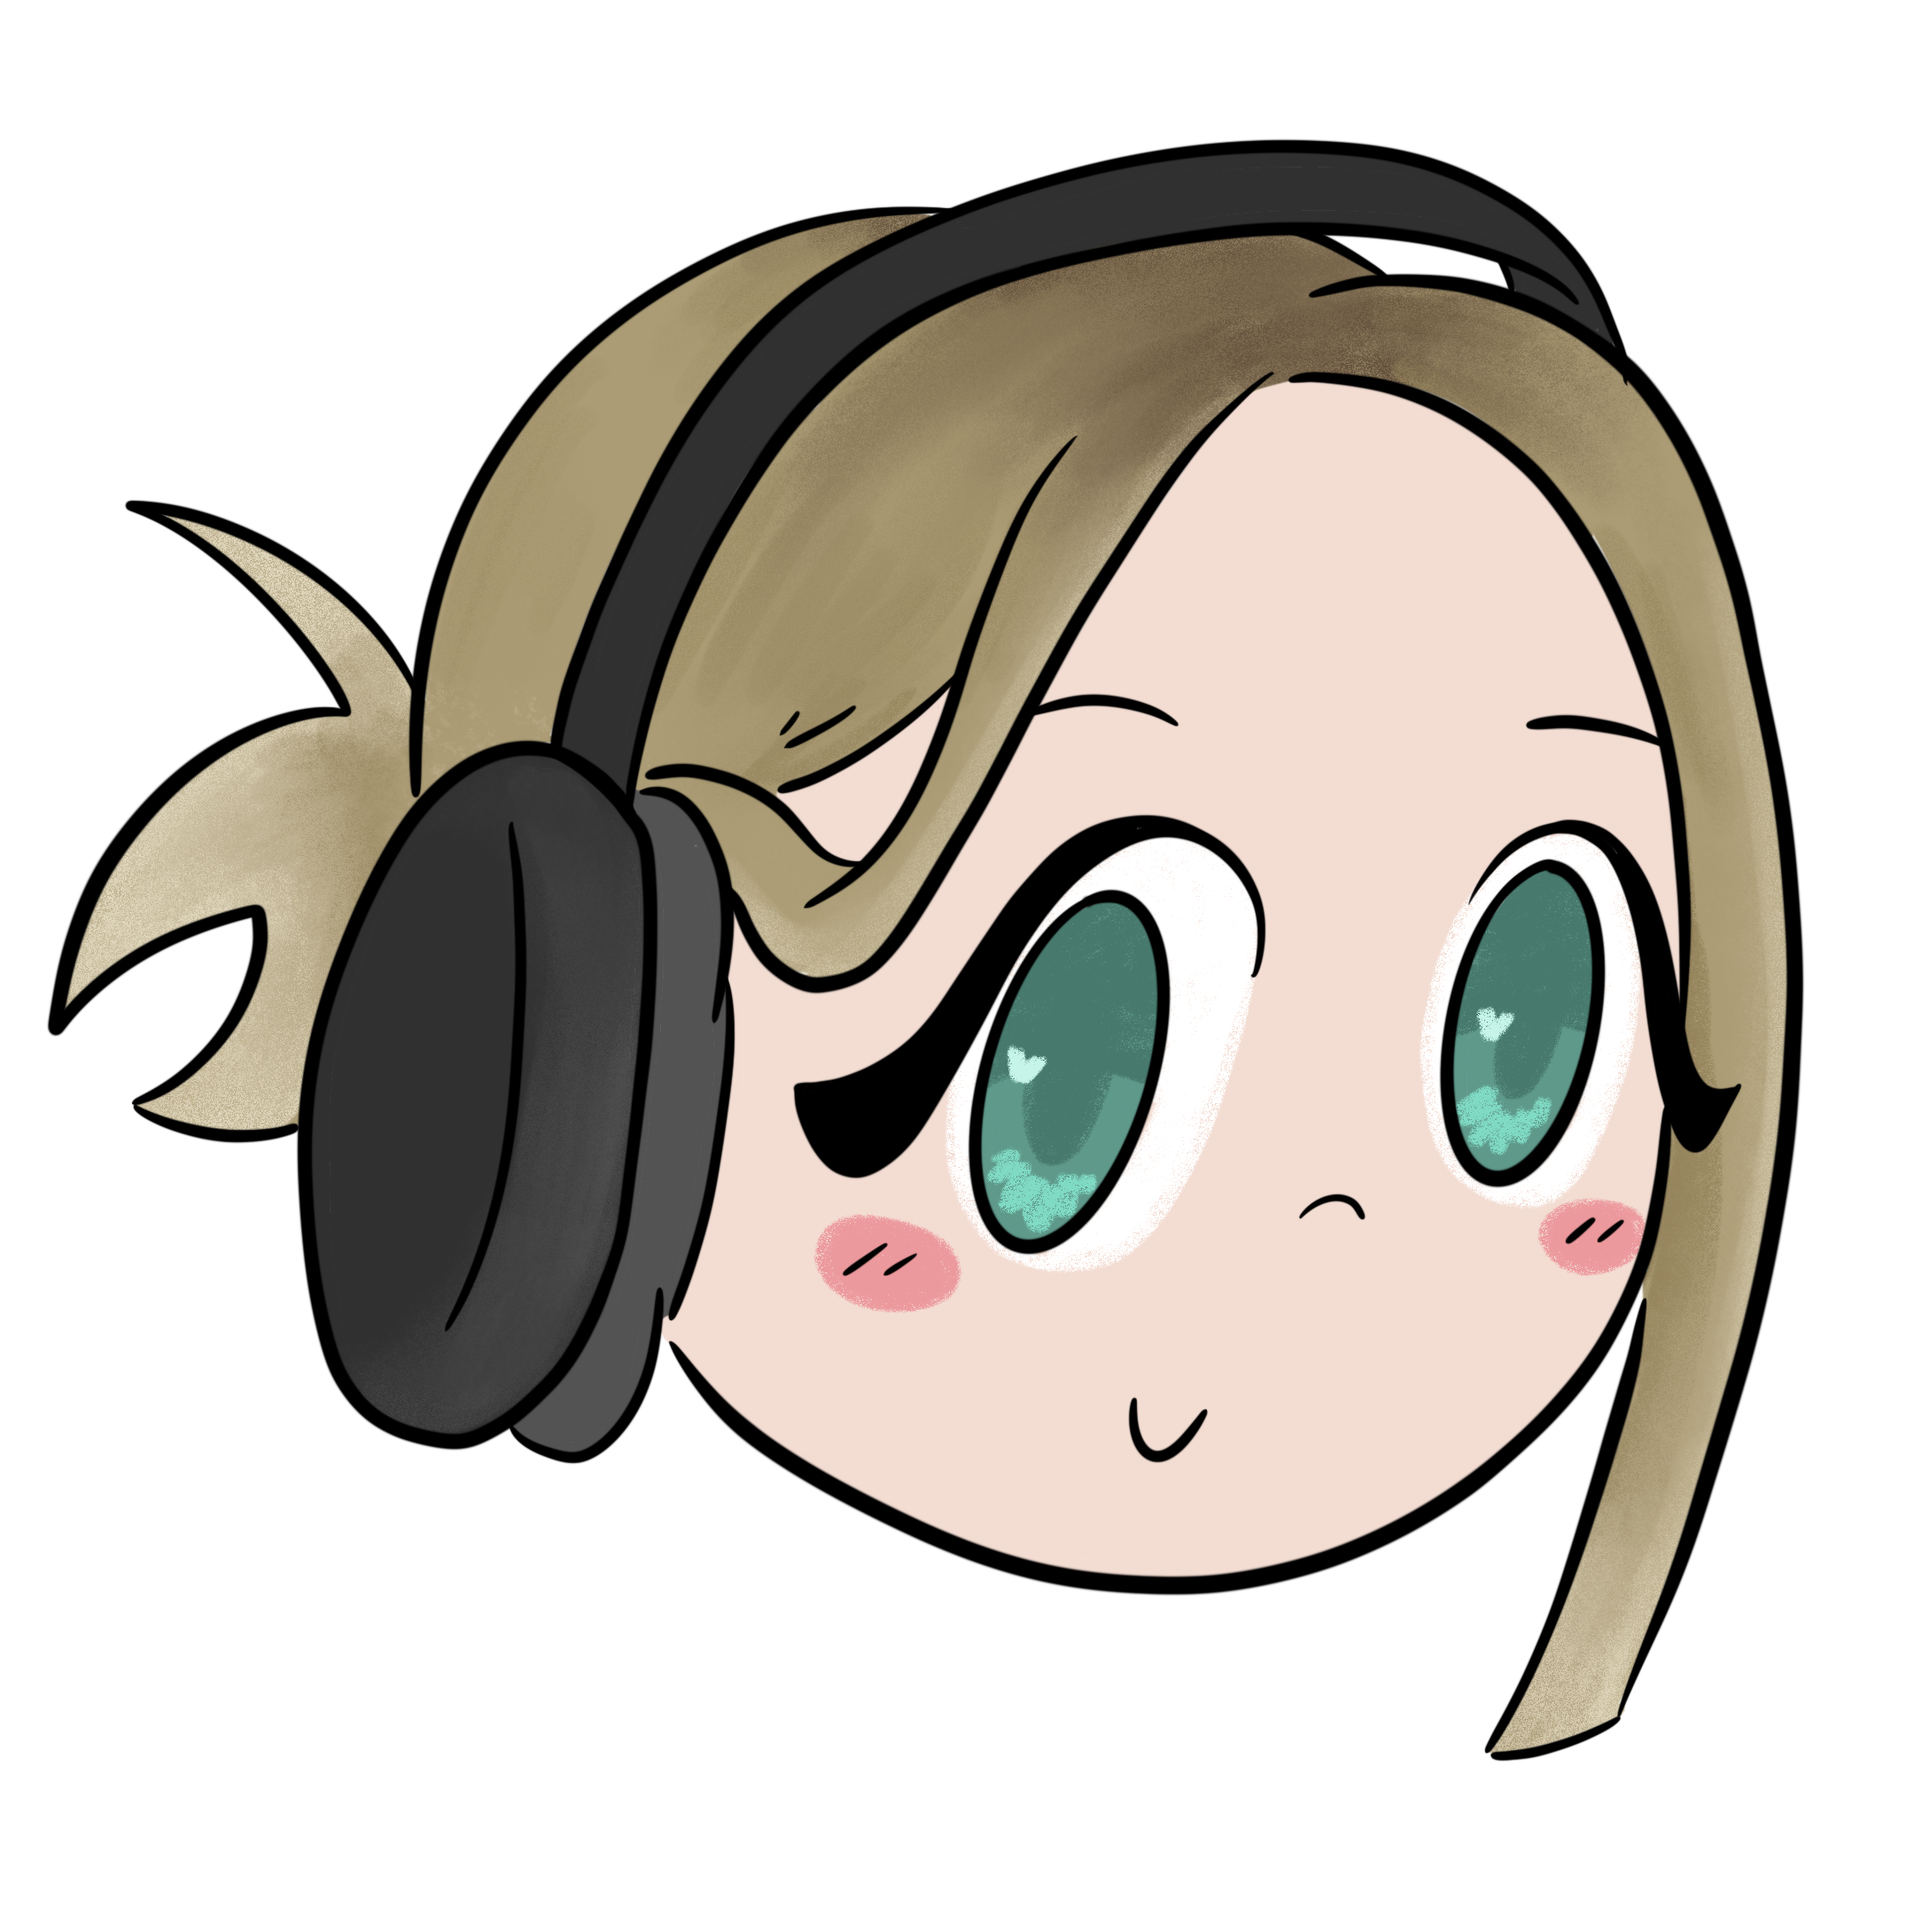
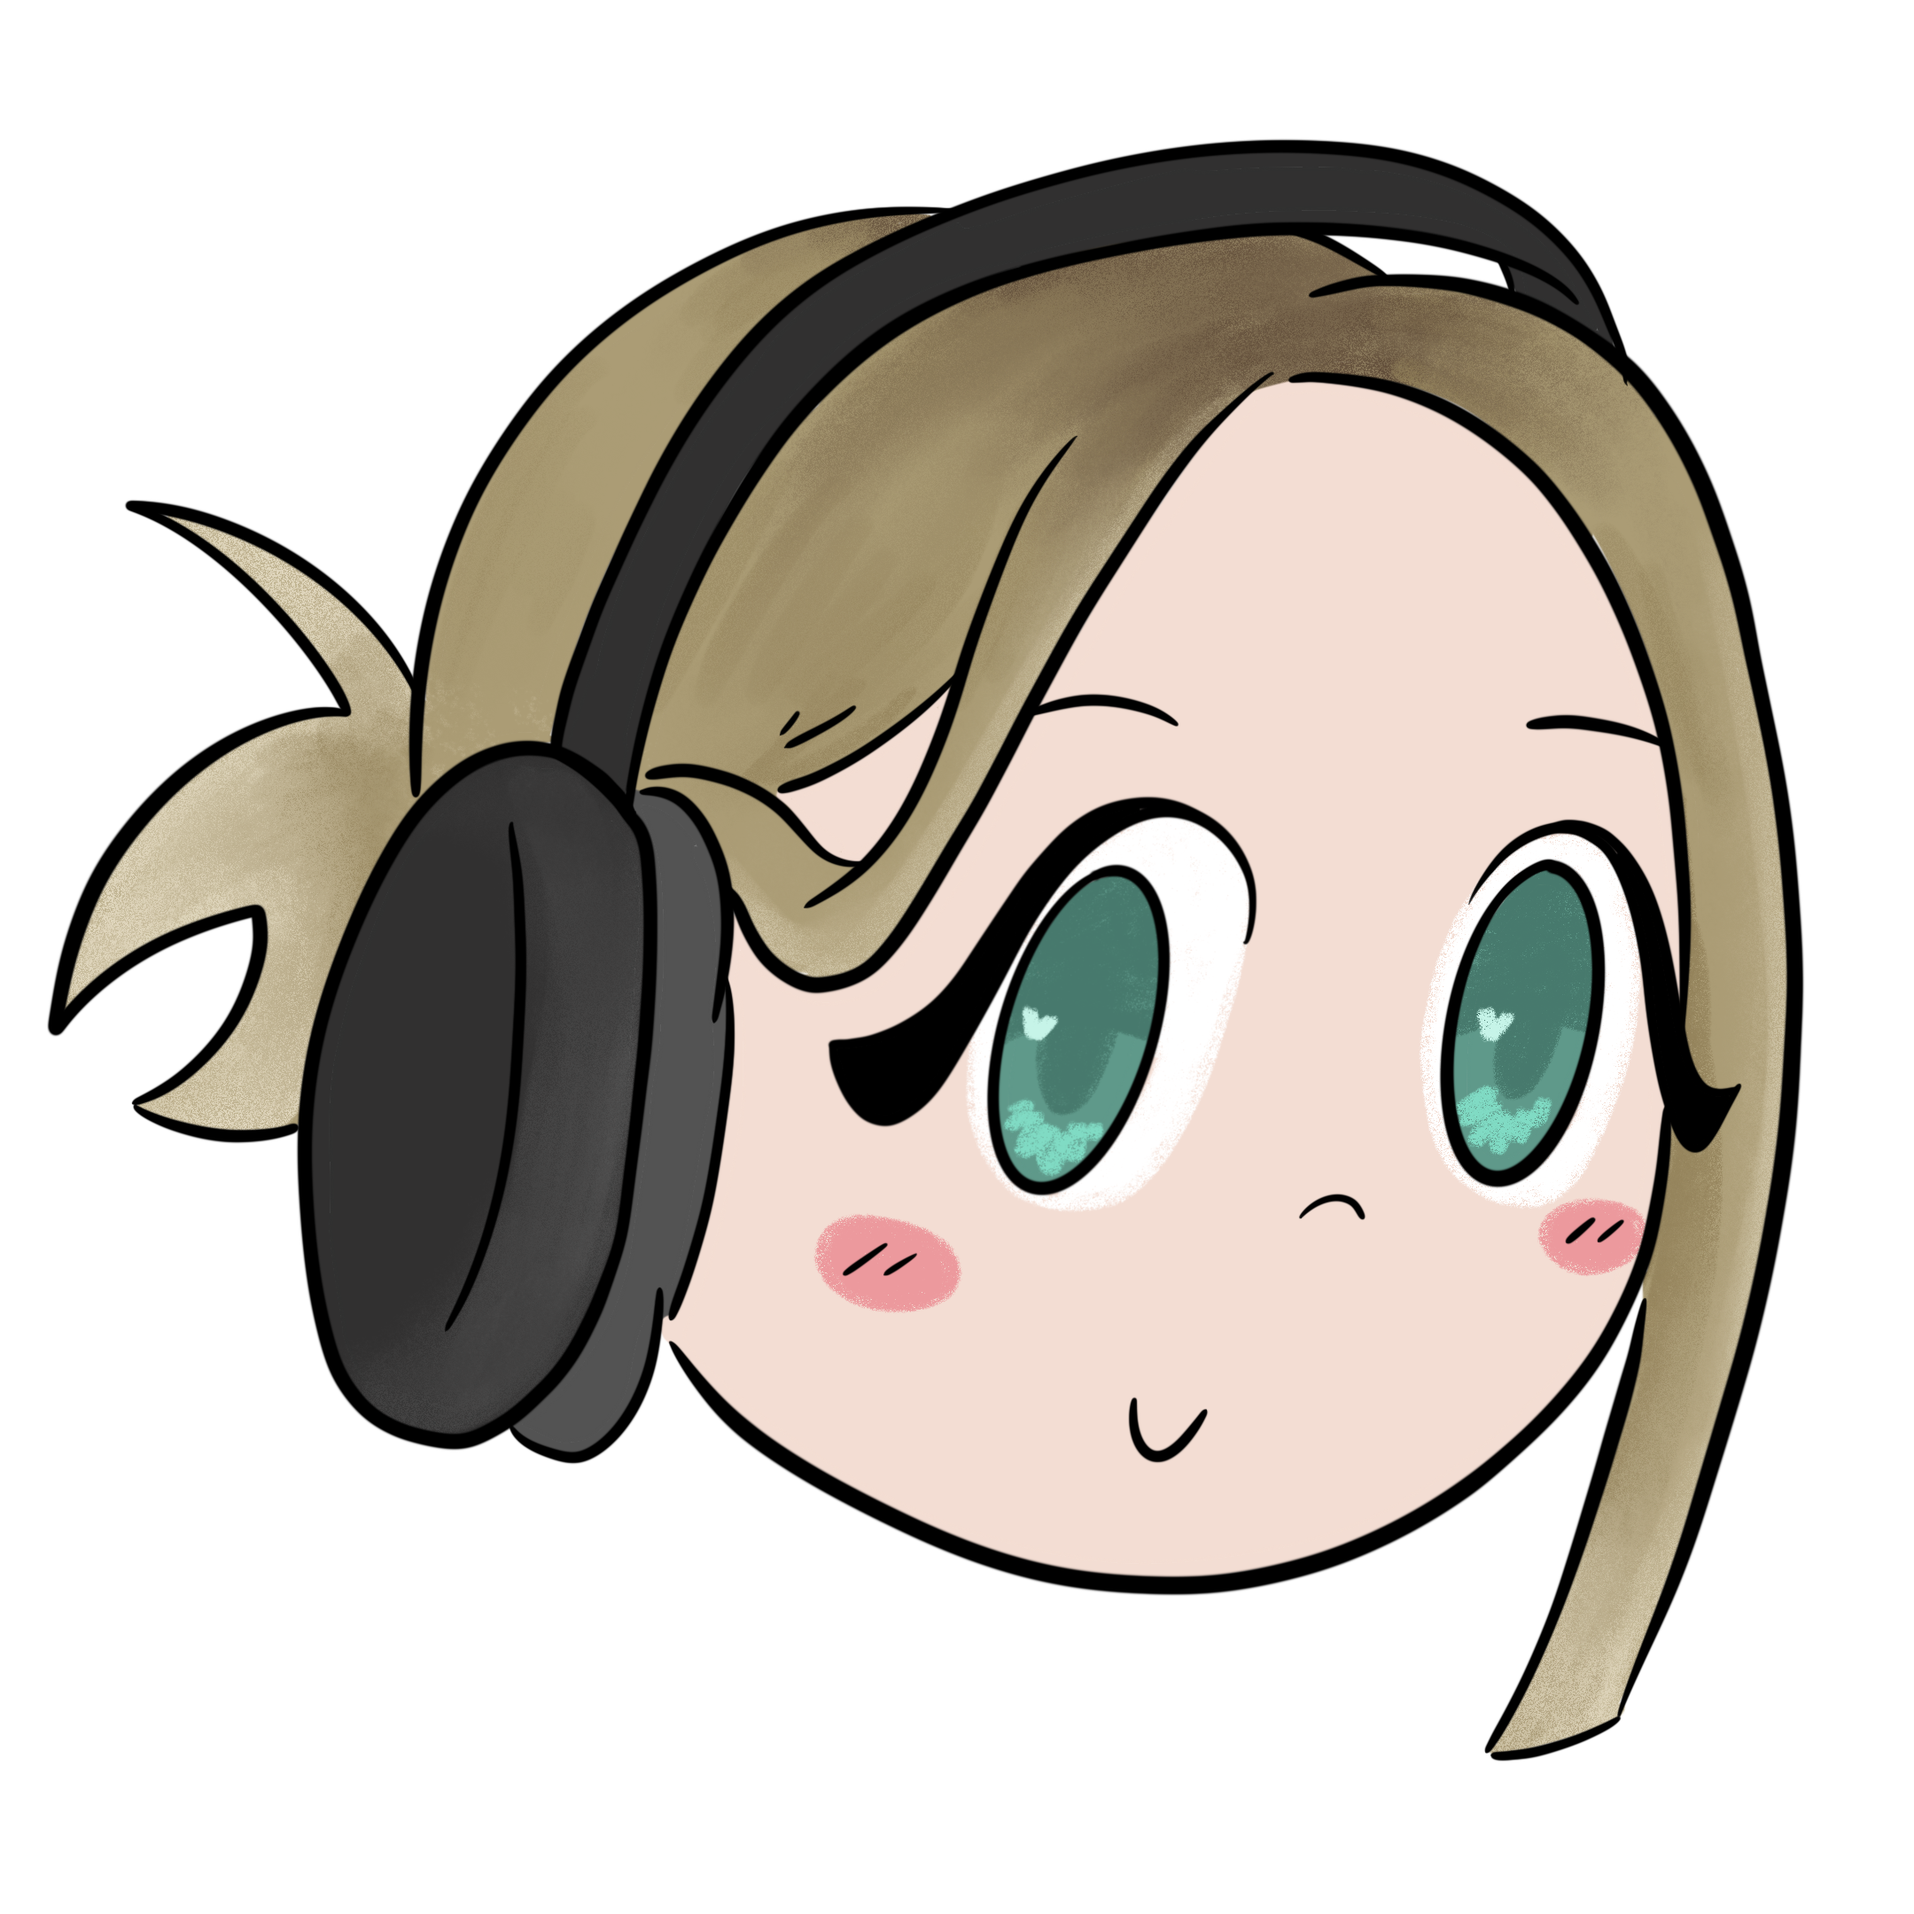
base test 6

Changed region(s): [[0.4032, 0.4032, 0.6824, 0.6824]]

diff --git a/style.css b/style.css
@@ -32,7 +32,7 @@ html{ scroll-behavior: smooth; }
 
 body{
   margin: 0;
-  background: var(--bg);
+  background: rgb(72, 51, 89);
   color: rgb(255, 235, 255);
   font-family: var(--font-body);
   font-size: 17px;
@@ -71,7 +71,7 @@ section{ padding: 96px 0; }
   margin: 0 0 0.3em;
 }
 
-.section-lede{ color: var(--ink-soft); }
+.section-lede{ color: rgb(255, 235, 255);; }
 
 /* =========================================================
    HEADER
@@ -341,14 +341,19 @@ section{ padding: 96px 0; }
   display: grid;
   grid-template-columns: 1fr 1fr;
   gap: 0;
-  background: var(--card);
+  background: rgb(119, 94, 140);;
   border-radius: var(--radius-lg);
   overflow: hidden;
   box-shadow: var(--shadow-card);
 }
 
+.project-copy h2{
+  color: var(--accent-berry);
+}
+
 .project-b{ direction: rtl; }
 .project-b .project-copy{ direction: ltr; }
+
 .project-b .project-thumb{ direction: ltr; }
 
 .project-thumb{
@@ -356,19 +361,16 @@ section{ padding: 96px 0; }
   display: flex;
   align-items: center;
   justify-content: center;
-  padding: 24px;
   text-align: center;
 }
 .placeholder-thumb{
   color: var(--card);
   font-weight: 600;
-  background-image: radial-gradient(rgba(255,255,255,0.35) 2px, transparent 2px);
-  background-size: 18px 18px;
 }
-.thumb-1{ background-color: var(--accent-berry); }
-.thumb-2{ background-color: var(--accent-moss); }
-.thumb-3{ background-color: var(--accent-honey); }
-.thumb-4{ background-color: var(--ink-soft); }
+.thumb-1{ }
+.thumb-2{ }
+.thumb-3{ }
+.thumb-4{ }
 
 .project-copy{
   padding: 36px 40px;
@@ -386,7 +388,7 @@ section{ padding: 96px 0; }
   margin: 10px 0 18px;
 }
 .project-tags li{
-  background: var(--bg-soft);
+  background: rgb(255, 235, 255);
   border-radius: 999px;
   padding: 5px 14px;
   font-size: 0.85rem;
@@ -394,8 +396,7 @@ section{ padding: 96px 0; }
   color: var(--ink-soft);
 }
 .project-tags li.tag-mode{
-  background: var(--accent-moss);
-  color: var(--card);
+  background: rgb(222, 182, 222);
 }
 .project-tags li.tag-jam{
   background: var(--accent-honey);
@@ -407,6 +408,8 @@ section{ padding: 96px 0; }
   border: none;
   cursor: pointer;
   font-family: var(--font-body);
+  background: rgb(74, 155, 137);
+  color: rgb(72, 51, 89);
 }
 
 .projects-heading{

diff --git a/script.js b/script.js
@@ -285,7 +285,7 @@ function renderProjects(lang) {
         ${coverHtml}
       </div>
       <div class="project-copy">
-        <h3>${t.title}</h3>
+        <h2>${t.title}</h2>
         <p>${t.shortDesc}</p>
         <ul class="project-tags">
           ${buildTagsHtml(project, lang)}
